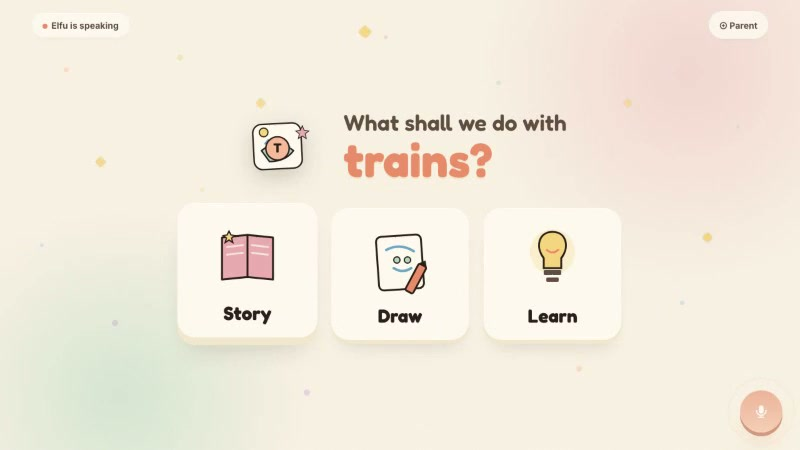
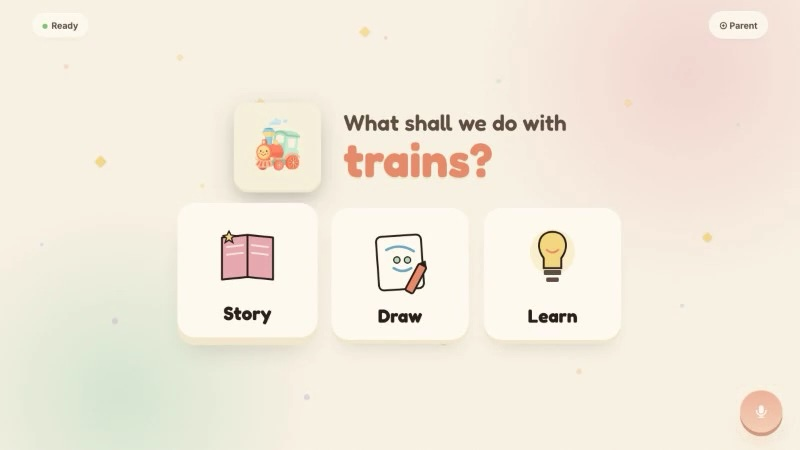
Chore: Minor fixes & refinements to README

Changed region(s): [[0.2812, 0.2178, 0.4062, 0.4667], [0.0625, 0.0311, 0.1562, 0.0622], [0.4375, 0.0622, 0.4688, 0.0933]]

diff --git a/README.md b/README.md
@@ -6,20 +6,20 @@
 
 **[Watch the two-minute demo →](https://youtu.be/eHUrM30v2EA)**
 
-Elfu is a personal product and engineering experiment I built for my four-year-old. A child starts with a topic such as trains, butterflies, dinosaurs, or rain. Elfu, a baby-elephant guide, then offers three short paths: **Story**, **Draw**, or **Learn**.
+Elfu is a personal product & engineering experiment I built for my 4-year-old. A child picks a topic (Eg: butterflies) and Elfu, a baby-elephant guide, offers three short paths: **Story**, **Draw**, or **Learn**.
 
-I wanted to see whether a young child's first experience of AI could feel more like active creation and guided curiosity than another stream of passive content.
+I wanted to see whether a young child's first experience of AI could feel more like active creation and guided curiosity than another stream of passive content (Yes, Peppa Pig, I'm talking about you!).
 
 ## Why this exists
 
-For many parents, YouTube and Netflix are the easiest dependable options when a young child wants screen time. They work, but the child is mostly consuming. I could not find many substitutes that were active, curiosity-fostering, easy for a pre-reader to use, and safe enough for a parent to trust.
+For many parents, YouTube kids & Netflix are the easiest dependable options when a young child wants screen time. While there's some good content out there (Eg: Stillwater), the child is mostly consuming passively. I could not find many substitutes that were active, curiosity-fostering, easy for a pre-reader to use, and safe enough for a parent to trust.
 
 Elfu is an attempt at that missing interaction model. It is a bounded environment designed around how young children actually communicate, rather than a general chatbot with a child-friendly skin:
 
 - voice before typing;
 - large choices rather than open-ended navigation;
 - short creative loops rather than an infinite feed;
-- a warm guide without "best friend" framing;
+- a warm guide without "best friend"/ dependency framing;
 - visible endings and parent handoff rather than engagement at any cost.
 
 The bar I use is modest: **a better ten minutes than passive video: active, creative, finite, and parent-visible.**
@@ -28,10 +28,11 @@ The bar I use is modest: **a better ten minutes than passive video: active, crea
 
 ![Elfu offers Story, Draw, and Learn for the child's chosen topic](media/robo-kid-session.jpg)
 
-1. The child says what they are curious about.
-2. Elfu reflects the topic and offers **Story**, **Draw**, or **Learn**.
-3. The child chooses with voice or a large on-screen card.
+1. The child picks a topic they are curious about.
+2. Elfu offers **Story**, **Draw**, or **Learn** choices.
+3. The child picks an activity.
 4. Elfu runs a short activity with limited steps and simple choices.
+5. The child can then pick another activity for that same topic getting a cohesive experience (for example, a train story followed by the option to now draw a train)
 5. The session winds down and hands control back to a parent.
 
 The current build is intentionally narrow. Story creates a short illustrated sequence. Draw gives one step at a time. Learn pairs a small fact with an action or question. The objective is not to keep the child talking indefinitely; it is to help them ask, choose, imagine, revise, and make something.
@@ -92,7 +93,7 @@ For each run, the harness records:
 - deterministic usability monitors;
 - an optional model-based audiovisual evaluation.
 
-The evaluator is tested too. Seeded defects such as repeated fallbacks, topic drift, duplicate audio, injected latency, and audio/visual desynchronization are used to check which failure classes the judge can reliably identify. A judge result is not treated as ground truth simply because it came from another model.
+The evaluator is tested too. Seeded defects such as repeated fallbacks, topic drift, duplicate audio, injected latency, and audio/visual desynchronization are used to check which failure classes the judge can reliably identify.
 
 Read more: **[Robo-Kid evaluation harness](docs/robo-kid-evaluation-harness.md)**.
 
@@ -106,15 +107,10 @@ Read more: **[Robo-Kid evaluation harness](docs/robo-kid-evaluation-harness.md)*
 | [Sanitized sample run](artifacts/sample-run/README.md) | A cooperative story scenario, aggregate timing, completion, and recording-health evidence. |
 | [Evaluator calibration](artifacts/evaluator-calibration.md) | A historical seeded-defect exercise, including blind spots and confounded evidence. |
 
-## Current scope
-
-Elfu is a tinker project, not a released product. The current evidence comes from use with one young child, automated tests, and simulated voice sessions. The prototype still has important open problems, including conversational latency, broader scenario coverage, evaluator reliability, parent controls, privacy design, and testing across children, accents, ages, and environments.
-
-The repository contains documentation and selected sanitized artifacts. The production application, complete prompts and policies, raw child data, and harness source are intentionally not included.
 
 ## Future direction
 
-Two directions matter if the project continues:
+Two things that I'm excited about:
 
 - **Privacy-preserving memory:** enough continuity to remember a child's interests, creations, and progression without building an opaque archive of intimate conversations. Memory should be minimal, parent-controlled, inspectable, and erasable.
 - **Personalized, age-guided progression:** adapt the interaction model as the child grows. At ages three to four that means voice, cards, pretend play, and drawing prompts. Later it can include phonics, sequencing, projects, typing, coding, research, and critical AI collaboration.
@@ -123,4 +119,4 @@ The long-term idea is an AI-native first-computer environment where children lea
 
 ---
 
-Built by [Aravind](https://github.com/aravind10x) as a personal exploration in child-computer interaction, governed agents, and evaluation for live voice systems.
+Built as a personal exploration in child-computer interaction, governed agents, and evaluation for live voice systems.

diff --git a/NOTICE.md b/NOTICE.md
@@ -2,7 +2,7 @@
 
 This repository contains documentation and selected sanitized artifacts from the Elfu project. It does not contain the production application, complete prompts or policies, the Robo-Kid harness source, raw child data, or full session records.
 
-No open-source license is granted by publication of this repository. Text and diagrams may be quoted with attribution for discussion or review. Images, video, audio, branding, and other media may not be reused or redistributed without permission.
+Text and diagrams may be quoted with attribution for discussion or review. Images, video, audio, branding, and other media may not be reused or redistributed without permission.
 
 The project is an experimental prototype and is not represented as a certified child-safety system, medical or educational product, or substitute for adult supervision.
 
